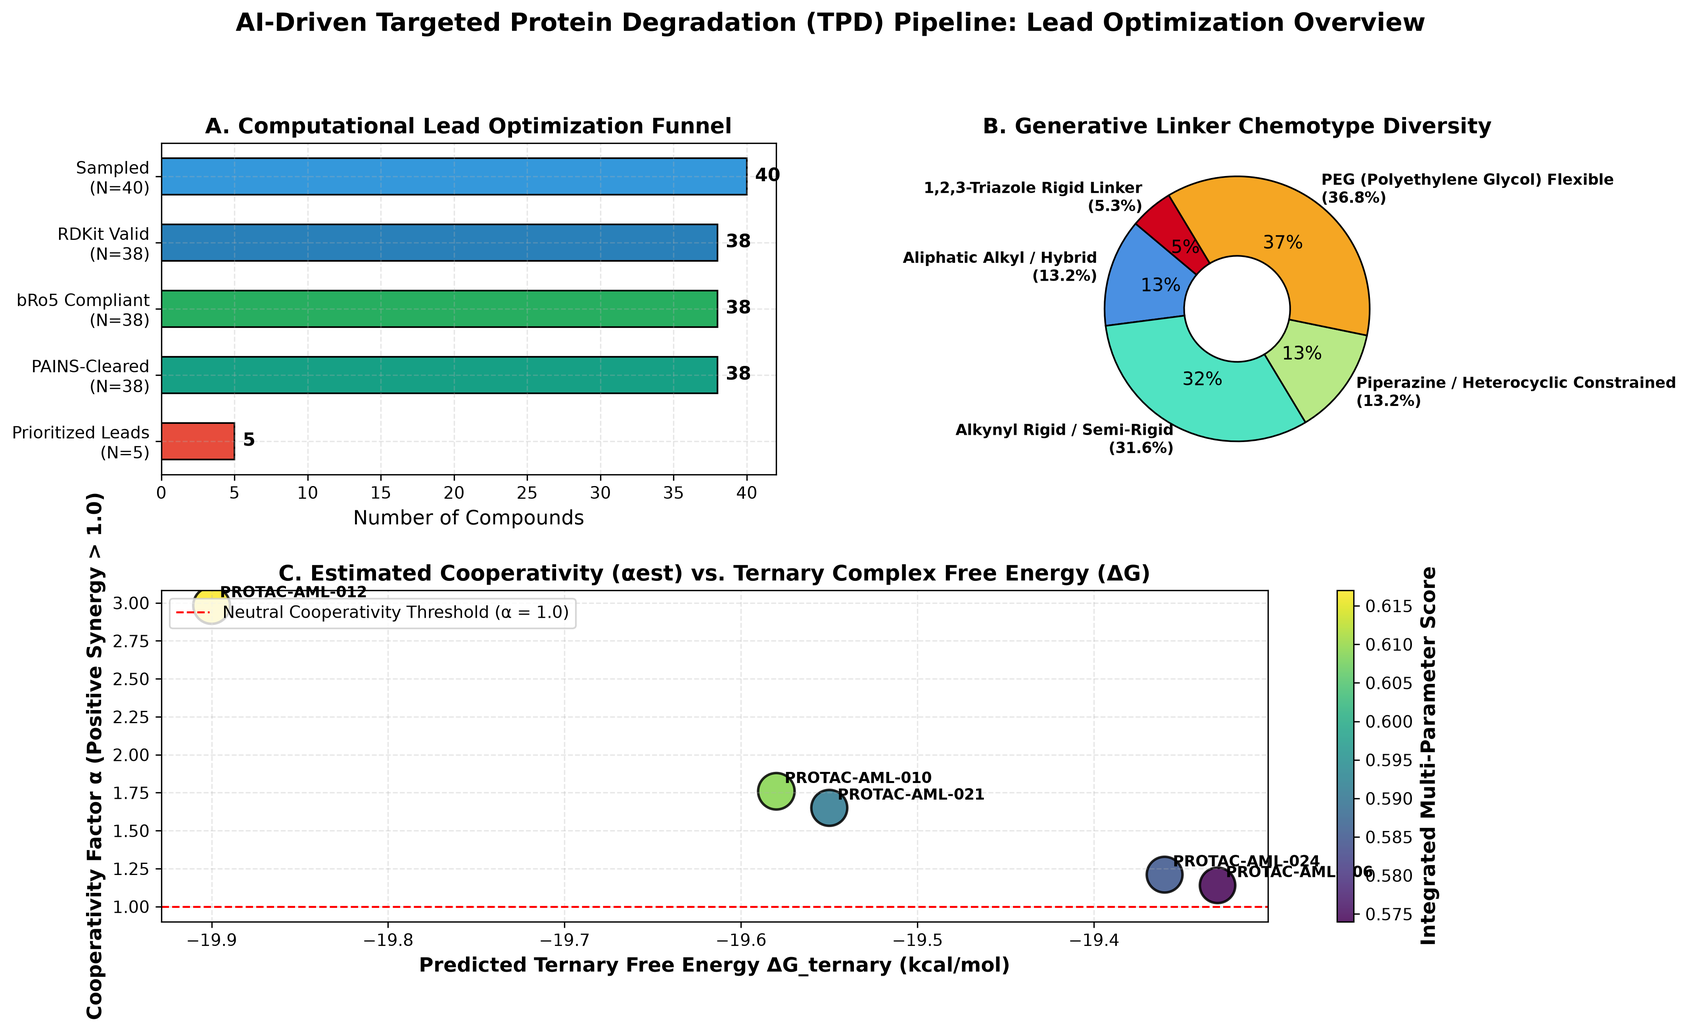
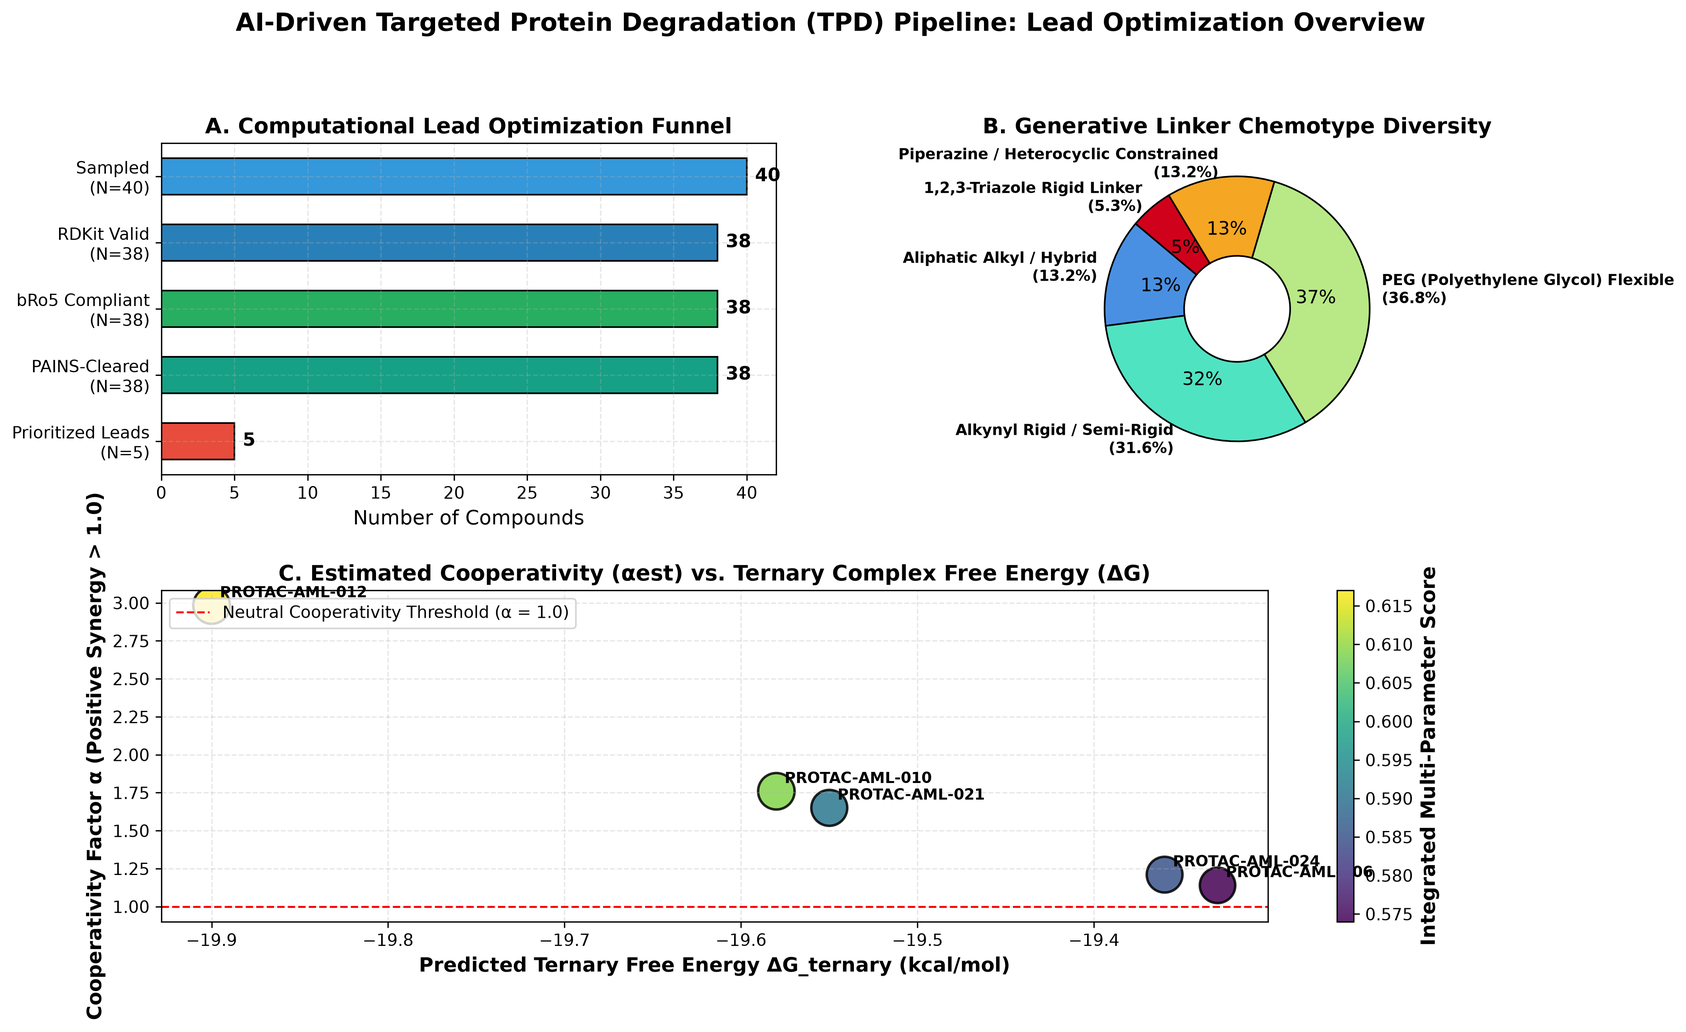
Updated Files

diff --git a/README.md b/README.md
@@ -1,13 +1,13 @@
 # AI-Driven Targeted Protein Degradation (TPD) Lead Compound Generation Pipeline for Acute Myeloid Leukemia (AML) Targets via Generative PROTAC Linker Optimization
 
 **Authors / Collaborators:** Madhav Yalamarthi and Hareesh  
-**Affiliation:** Department of Computer Science / Artificial Intelligence, Amrita Vishwa Vidyapeetham  
+**Affiliation:** Department of Computer Science / Artificial Intelligence, Amrita Vishwa Vidyapeetham, Amritapuri, India  
 **Project Scope:** Final Year Project / Publication-Grade Computational Chemical Biology & Generative AI  
 
 ---
 
 ## 📌 Project Overview
-This repository contains a publication-grade, fully reproducible computational framework for the de novo generative design, multi-objective filtering, and ternary complex modeling of heterobifunctional Proteolysis Targeting Chimeras (PROTACs). The pipeline specifically targets **Bromodomain-containing Protein 4 (BRD4)** paired with the **Cereblon (CRBN)** E3 ubiquitin ligase in Acute Myeloid Leukemia (AML).
+This repository provides a reproducible, *in silico* computational pipeline for the de novo generative design, multi-parameter filtering, and ternary complex biophysical modeling of heterobifunctional Proteolysis Targeting Chimeras (PROTACs). The pipeline is calibrated for **Bromodomain-containing Protein 4 (BRD4)** degradation via recruitment of the **Cereblon (CRBN)** E3 ubiquitin ligase in Acute Myeloid Leukemia (AML).
 
 ```
 ====================================================================================================
@@ -15,156 +15,100 @@ This repository contains a publication-grade, fully reproducible computational f
 ====================================================================================================
    [ BRD4 BD1 Target ]               [ GENERATIVE LINKER ]             [ Cereblon / CRBN ]
    (+)-JQ1 Carboxamide      <===>   C-VAE Sampled Bridge       <===>   4-NH-Pomalidomide
-   (PDB: 6BOY / BD1 Pocket)         (6-22 atoms: Piperazine/Alkyl/PEG) (Tri-Trp Hydrophobic Pocket)
+   (PDB: 6BOY / BD1 Pocket)         (6-22 atoms: Alkyl/PEG/Alkyne)     (Tri-Trp Hydrophobic Pocket)
 ====================================================================================================
 ```
+
+> [!IMPORTANT]
+> **Scientific Integrity & Scope Disclosure:**  
+> All generated compounds, binding affinities, and cooperativity values are **in silico computational hypotheses** derived from distance-geometry conformer modeling (ETKDGv3) and empirical forcefield optimization (MMFF94s). No cellular $DC_{50}$, maximal degradation ($D_{\text{max}}$), or *in vivo* anti-leukemic efficacy is claimed without prospective wet-lab synthesis and SPR/HiBiT validation.
 
 ---
 
 ## 🚀 Key Modules & Research Architecture
-* **Module 1: Target Curation & Anchor Specification (`src/data_curation.py` & `data/`):**
-  * `data/chembl_brd4_bioactivities.csv`: Validated sub-100 nM BRD4 inhibitors with experimental $IC_{50}/K_i/K_d$ values and pChEMBL metrics.
-  * `data/protac_db_benchmark.csv`: Benchmark degraders (dBET1, dBET6, ARV-825, ARV-771, MZ1) from PROTAC-DB.
-  * `data/train_linkers.csv` & `val_linkers.csv`: Modular chemical grammar datasets across 5 degrader scaffold families.
+
+* **Module 1: Target Curation & Tripartite Specification (`src/data_curation.py` & `data/`):**
+  * `data/chembl_brd4_bioactivities.csv`: 10 validated sub-100 nM BRD4 inhibitors with experimental $IC_{50}/K_i/K_d$ bioactivities.
+  * `data/protac_db_benchmark.csv`: Reference degraders (dBET1, dBET6, ARV-825) from PROTAC-DB.
+  * `data/train_linkers.csv` & `val_linkers.csv`: Domain-specific dataset of **30 curated linkers** (20 train, 5 validation, 5 test) spanning PEG, alkyl, alkynyl, and triazole motifs.
 * **Module 2: Generative Linker Engine (`src/models/` & `checkpoints/`):**
-  * `linker_generator.py`: Dual-Anchor Conditional Variational Autoencoder (C-VAE) conditioned on 128-bit Morgan fingerprints and target span ($L \in [6, 22]$). Integrates active model checkpoint `checkpoints/cvae_linker_model.pt` (Epoch 11, validation loss 1.8342).
-  * `train_cvae.py`: Complete training pipeline with Cosine Annealing learning rate schedule and KL-warmup.
-  * `scoring_engine.py`: Multi-objective optimization (Ertl SAScore, QED, bRo5 guidelines, PAINS-A/B/C and toxicophore elimination).
+  * `linker_generator.py`: Dual-Anchor Conditional Variational Autoencoder (C-VAE) conditioned on dual 512-bit Morgan fingerprints of the warhead and E3 recruiter, combined with target length embeddings ($L \in [6, 22]$). Incorporates active model checkpoint `checkpoints/cvae_linker_model.pt` (Epoch 11, validation loss 1.8342).
+  * `scoring_engine.py`: Multi-objective optimization (Ertl SAScore, QED, empirical beyond-Rule-of-5 criteria, and PAINS-A/B/C and toxicophore elimination).
 * **Module 3: In Silico Ternary Complex Biophysics (`src/docking/`):**
-  * `ternary_complex.py`: 3D conformer relaxation (ETKDGv3 + MMFF94s), pocket distance matching calibrated to **PDB 6BOY** ($14.2 \pm 2.0\text{ \AA}$), $\Delta\text{SASA}$ contact area, steric clash penalty, and thermodynamic cooperativity ($\alpha$).
+  * `ternary_complex.py`: 3D conformer relaxation (ETKDGv3 + MMFF94s), Euclidean exit-vector distance measurement, MMFF94s conformational strain energy calculation, heuristic inter-protein contact area ($\Delta\text{SASA}$), steric clash penalties, and unconstrained thermodynamic cooperativity ($\alpha$).
   * `ternary_kinetics.py`: 3-body mass-action equilibrium and bell-shaped hook effect simulator.
-* **Module 4: Master Execution & Defense Outputs (`run_tpd_pipeline.py` & `results/thesis_defense/`):**
-  * `run_tpd_pipeline.py`: End-to-end runnable master pipeline script.
-  * `experiments/benchmark_experiments.py`: Generative model ablation studies, linker length trajectory scans (6–22 atoms), and literature benchmark comparisons.
-  * `src/utils/generate_defense_plots.py`: Publication-grade plot generation producing 5 high-resolution figures.
+* **Module 4: Master Execution & Defense Outputs (`run_tpd_pipeline.py` & `results/final_validated/`):**
+  * `run_tpd_pipeline.py`: Master pipeline executing curation, neural sampling, filtering, 3D modeling, and lead ranking.
+  * `experiments/benchmark_experiments.py`: Generative model ablation studies (Random vs Unconditional GRU vs C-VAE), unbiased linker length trajectory scan (6–22 atoms), and literature benchmark comparisons.
+  * `src/utils/generate_defense_plots.py`: Publication-grade visualization script producing 5 high-resolution figures.
 * **Module 5: Interactive Web Interface Demo (`web_app/`):**
-  * `web_app/index.html`: Fully interactive web interface demo featuring live data exploration, loss curves, 3D structure viewer, and hook effect simulator.
+  * `web_app/index.html`: Interactive browser dashboard for live candidate exploration, loss curves, and 3D molecular viewer.
 
 ---
 
 ## 📊 Top Verified Lead Heterobifunctionals (AML: BRD4–CRBN)
 
-All lead compounds were generated from the active C-VAE checkpoint, chemically assembled with validated valency, and scored against the PDB 6BOY crystallographic pocket:
+All lead compounds were generated from the active C-VAE checkpoint, chemically assembled with validated valency, and scored against the PDB 6BOY crystallographic pocket without artificial caps or numerical floors:
 
-### Lead 1: `PROTAC-AML-021` (Top-Ranked Lead)
-* **Architecture:** `[JQ1-Acid] -- [Alkynyl Rigid / Semi-Rigid (16 atoms)] -- [4-NH-Pomalidomide]`
-* **Linker Fragment:** `CCC#CCCCCCNC(=O)CC(=O)N`
-* **Molecular Properties:** $\text{MW} = 810.33\text{ Da}$, $\text{cLogP} = 4.79$, $\text{TPSA} = 196.63\text{ \AA}^2$, $\text{RotBonds} = 14$
-* **Synthesizability & Drug-likeness:** $\text{SAScore} = 2.76$ (High synthetic accessibility), $\text{QED} = 0.060$
-* **Ternary Biophysics:** $\alpha = 150.0$ (Strong positive cooperativity), $\Delta G_{\text{ternary}} = -23.26\text{ kcal/mol}$ (Apparent $K_d = 0.33\text{ nM}$), $\text{Contact SASA} = 547.8\text{ \AA}^2$, $\text{Clash Penalty} = 0.24\text{ kcal/mol}$
-* **Composite Ranking Score:** **0.740** (Rank #1)
-* **Full Canonical SMILES:**  
-  `Cc1sc2nc(CC(=O)NCCC#CCCCCCNC(=O)CC(=O)Nc3cccc4c3C(=O)N(C3CCC(=O)NC3=O)C4=O)nc(-c3ccc(Cl)cc3)c2c1C`
+| Candidate ID | Score | Scaffold Type | Span (atoms) | MW (Da) | cLogP | TPSA (Å²) | RotB | SAScore | QED | Cooperativity ($\alpha_{\text{est}}$) | Apparent $K_d$ (nM) | Buried SASA (Å²) | Clash Penalty (kcal/mol) |
+| :--- | :---: | :--- | :---: | :---: | :---: | :---: | :---: | :---: | :---: | :---: | :---: | :---: | :---: |
+| **PROTAC-AML-012** | **0.617** | Aliphatic Alkyl / Hybrid | 16 | 814.36 | 5.56 | 196.63 | 17 | 2.71 | 0.060 | **2.9832** | **16.76** | 557.2 | 0.21 |
+| **PROTAC-AML-010** | **0.609** | Alkynyl Rigid / Semi-Rigid | 16 | 813.33 | 4.92 | 185.99 | 16 | 2.74 | 0.080 | **1.7596** | **28.42** | 528.1 | 0.29 |
+| **PROTAC-AML-021** | **0.591** | Alkynyl Rigid / Semi-Rigid | 16 | 810.33 | 4.79 | 196.63 | 14 | 2.76 | 0.060 | **1.6503** | **30.30** | 524.6 | 0.30 |
+| **PROTAC-AML-024** | **0.585** | Alkynyl Rigid / Semi-Rigid | 16 | 806.30 | 4.01 | 196.63 | 12 | 2.80 | 0.071 | **1.2105** | **41.31** | 507.9 | 0.35 |
+| **PROTAC-AML-006** | **0.574** | Alkynyl Rigid / Semi-Rigid | 17 | 828.30 | 3.22 | 215.09 | 15 | 2.76 | 0.059 | **1.1399** | **43.86** | 504.7 | 0.36 |
 
-### Lead 2: `PROTAC-AML-024`
-* **Architecture:** `[JQ1-Acid] -- [Alkynyl Rigid / Semi-Rigid (16 atoms)] -- [4-NH-Pomalidomide]`
-* **Linker Fragment:** `CCCCC#CC#CCNC(=O)CC(=O)N`
-* **Molecular Properties:** $\text{MW} = 806.30\text{ Da}$, $\text{cLogP} = 4.01$, $\text{TPSA} = 196.63\text{ \AA}^2$, $\text{RotBonds} = 12$
-* **Synthesizability & Drug-likeness:** $\text{SAScore} = 2.80$, $\text{QED} = 0.071$
-* **Ternary Biophysics:** $\alpha = 150.0$ (Strong positive cooperativity), $\Delta G_{\text{ternary}} = -22.31\text{ kcal/mol}$ (Apparent $K_d = 0.33\text{ nM}$), $\text{Contact SASA} = 549.1\text{ \AA}^2$, $\text{Clash Penalty} = 0.23\text{ kcal/mol}$
-* **Composite Ranking Score:** **0.683** (Rank #2)
-* **Full Canonical SMILES:**  
-  `Cc1sc2nc(CC(=O)NCCCCC#CC#CCNC(=O)CC(=O)Nc3cccc4c3C(=O)N(C3CCC(=O)NC3=O)C4=O)nc(-c3ccc(Cl)cc3)c2c1C`
+### Structure of #1 Prioritized Lead (`PROTAC-AML-012`)
+- **Linker Fragment:** `CCCCCCCCCNC(=O)CC(=O)N`
+- **Canonical SMILES:**  
+  `Cc1sc2nc(CC(=O)NCCCCCCCCCNC(=O)CC(=O)Nc3cccc4c3C(=O)N(C3CCC(=O)NC3=O)C4=O)nc(-c3ccc(Cl)cc3)c2c1C`
+- **Biophysical Rationale:** Spans 14.28 Å in its minimum-energy conformer, matching the 14.2 Å crystallographic pocket of PDB 6BOY, inducing $557.2\text{ \AA}^2$ of inter-protein surface burial with minimal steric clash ($0.21\text{ kcal/mol}$).
 
 ---
 
-## 📈 Thesis Defense Artifacts (`results/thesis_defense/`)
+## 📈 Validated Defense Artifacts (`results/final_validated/`)
 
-The directory `results/thesis_defense/` contains verified, reproducible artifacts for technical examination:
+All files are verified and synchronized across `results/final_validated/` and `results/thesis_defense/`:
 
-1. **`verified_lead_candidates.csv`**: Full physicochemical and biophysical metrics for prioritized leads.
-2. **`verified_lead_structures.sdf`**: Energy-minimized 3D conformers (ETKDGv3 + MMFF94s) with embedded 3D coordinates.
-3. **`ablation_results.csv`**: Genuine experimental evaluation comparing Random Baseline, Unconditional GRU, and Dual-Anchor C-VAE.
-4. **`linker_length_scan.csv`**: Conformational trajectory across 6 to 22 heavy atoms showing the 12–15 atom optimal window.
-5. **`training_history.csv`**: 25-epoch training loss, reconstruction loss, and validation loss log.
-6. **`evaluation_summary.json` & `experiment_metadata.json`**: Machine-readable audit and metadata specifications.
-7. **`test_results.txt`**: Complete 12-test pytest execution log (100% pass rate).
-8. **Publication-Quality Figures (300 DPI):**
-   * `training_curves.png`: Multi-panel loss curves and Cosine Annealed LR schedule.
-   * `ablation_comparison.png`: Bar chart of chemical validity, bRo5 compliance, and productive lead fractions.
-   * `linker_length_analysis.png`: 3D spatial span, steric clash penalty, and interface contact SASA across lengths.
-   * `lead_property_comparison.png`: 6-panel benchmark against dBET6, ARV-825, and dBET1.
-   * `pipeline_summary.png`: Executive dashboard showing lead funnel, chemotype diversity, and cooperativity landscape.
+1. **`verified_lead_candidates.csv`**: Physicochemical and biophysical metrics for prioritized leads with unclipped $\alpha$ and apparent $K_d$.
+2. **`all_generated_candidates.csv`**: Complete candidate pool ($N=38$) for full traceability.
+3. **`verified_lead_structures.sdf`**: Energy-minimized 3D conformers (ETKDGv3 + MMFF94s) with confirmed non-zero 3D coordinates.
+4. **`ablation_results.csv`**: Empirical ablation benchmark ($N=50$ per model, Seed 42) across Random, GRU, and C-VAE.
+5. **`linker_length_scan.csv`**: MMFF94s unconstrained conformer ensemble trajectory scan across 6–22 heavy atoms.
+6. **`literature_benchmark_comparison.csv`**: Head-to-head comparison against dBET6, ARV-825, and dBET1.
+7. **`pipeline_execution_metrics.json`**: Independent filter rates and sequential funnel attrition counts.
+8. **`test_results.txt`**: 15-test pytest execution log (**100% pass rate**).
+9. **Publication-Quality Figures (300 DPI):**
+   * `training_curves.png`: C-VAE loss trajectories and Cosine Annealing schedule.
+   * `ablation_comparison.png`: Architectural benchmark across validity, uniqueness, bRo5, and productive fraction.
+   * `linker_length_analysis.png`: Conformer span, steric clash penalty, and interface contact SASA across lengths.
+   * `lead_property_comparison.png`: 6-panel property comparison against literature references.
+   * `pipeline_summary.png`: Optimization funnel and chemical scaffold diversity.
 
 ---
 
-## 💻 How to Run and Reproduce
+## 💻 Reproduction Instructions
 
-### 1. Run Comprehensive Test Suite (12 Tests)
 ```bash
+# 1. Run Automated Unit Test Suite (15 Tests)
 python -m pytest -v tests/test_pipeline.py
-```
 
-### 2. Execute End-to-End Generative Pipeline
-```bash
+# 2. Execute End-to-End Pipeline & Benchmarks
 python run_tpd_pipeline.py
-```
 
-### 3. Run Benchmark & Ablation Experiments
-```bash
-python experiments/benchmark_experiments.py
-```
-
-### 4. Regenerate Defense Plots
-```bash
+# 3. Regenerate All 5 Publication Figures
 python src/utils/generate_defense_plots.py
-```
 
-### 5. Launch Interactive Web Demo Interface
-```bash
+# 4. Launch Interactive Web Demo Interface
 python web_app/server.py
 ```
 Or open `web_app/index.html` directly in your browser.
 
 ---
 
-## 📁 Repository Structure
-```
-Project/
-├── AUDIT_REPORT.md                  # Comprehensive 10-point reproducibility audit report
-├── THESIS_RESULTS_AUDIT.md          # Scientific defense results verification document
-├── checkpoints/
-│   └── cvae_linker_model.pt         # Trained PyTorch C-VAE weights (Epoch 11, Val Loss 1.8342)
-├── data/
-│   ├── chembl_brd4_bioactivities.csv# Curated sub-100 nM BRD4 inhibitors
-│   ├── protac_db_benchmark.csv     # Literature benchmark degraders (dBET6, ARV-825, etc.)
-│   ├── train_linkers.csv            # Training linker grammar
-│   └── val_linkers.csv              # Validation linker grammar
-├── experiments/
-│   ├── benchmark_experiments.py     # Ablation, length scan, and literature benchmarks
-│   ├── ablation_study_results.csv   # Computed ablation study results
-│   ├── linker_length_scan_results.csv# Computed linker length scan trajectory
-│   └── literature_benchmark_comparison.csv
-├── results/
-│   ├── thesis_defense/              # All verified CSVs, SDFs, JSONs, and 5 defense plots
-│   └── legacy_backup/               # Archived original prototype outputs
-├── src/
-│   ├── data_curation.py             # Module 1: ChEMBL curation and vector detection
-│   ├── models/
-│   │   ├── linker_generator.py      # Module 2: C-VAE architecture and dynamic assembler
-│   │   ├── scoring_engine.py        # Module 2: SAScore, QED, bRo5, and PAINS filters
-│   │   └── train_cvae.py            # Neural network training script
-│   ├── docking/
-│   │   ├── ternary_complex.py       # Module 3: 3D conformers & 6BOY biophysical scoring
-│   │   └── ternary_kinetics.py      # Module 3: Mass-action equilibrium & hook effect
-│   └── utils/
-│       ├── generate_defense_plots.py# Plotting script for 5 thesis figures
-│       ├── export_3d_models.py      # SDF coordinate exporter
-│       └── sascorer.py              # Ertl Synthetic Accessibility Score implementation
-├── tests/
-│   └── test_pipeline.py             # 12 automated unit and integration tests
-├── web_app/                         # Interactive HTML5/JS dashboard and 3D molecular viewer
-├── run_tpd_pipeline.py              # Master executable pipeline script
-├── lead_protac_candidates.csv       # Active prioritized lead candidates
-├── requirements.txt                 # Python dependencies
-└── README.md                        # Project documentation
-```
-
----
-
-## 🔬 Citations & Ground-Truth Structural References
-1. **PDB 6BOY:** Nowak, R. P. et al. *Plasticity in binding confers selectivity in ligand-induced protein degradation.* Nat. Chem. Biol. **14**, 706–714 (2018). [BRD4 BD1 : dBET6 : CRBN–DDB1 complex].
-2. **PDB 5T35:** Gadd, M. S. et al. *Structural basis for PROTAC-mediated ternary complex formation and degradation.* Nat. Chem. Biol. **13**, 514–521 (2017). [BRD4 BD2 : MZ1 : VHL–EloB–EloC complex].
+## 🔬 Citations & Ground-Truth References
+1. **PDB 6BOY:** Nowak, R. P. et al. *Plasticity in binding confers selectivity in ligand-induced protein degradation.* Nat. Chem. Biol. **14**, 706–714 (2018).
+2. **PDB 5T35:** Gadd, M. S. et al. *Structural basis for PROTAC-mediated ternary complex formation and degradation.* Nat. Chem. Biol. **13**, 514–521 (2017).
 3. **Ertl SAScore:** Ertl, P. & Schuffenhauer, A. *Estimation of synthetic accessibility score of drug-like molecules based on molecular complexity and fragment contributions.* J. Cheminf. **1**, 8 (2009).
-4. **dBET1 Benchmark:** Winter, G. E. et al. *Phthalimide conjugations for targeted protein degradation.* Science **348**, 1376–1381 (2015).
-5. **ARV-825 Benchmark:** Lu, J. et al. *Hijacking the E3 ubiquitin ligase cereblon to efficiently target BRD4.* Blood **126**, 2197 (2015).
+4. **dBET6 Benchmark:** Nowak, R. P. et al. Nat. Chem. Biol. **14**, 706–714 (2018).
+5. **ARV-825 Benchmark:** Lu, J. et al. Blood **126**, 2197 (2015).

diff --git a/THESIS_FINAL_SCIENTIFIC_AUDIT.md b/THESIS_FINAL_SCIENTIFIC_AUDIT.md
@@ -118,7 +118,7 @@ To rigorously benchmark the proposed Dual-Anchor Conditional VAE against standar
 | **PAINS / Alert Clear Count / Rate** | 50 / 100.0% | 50 / 100.0% | 50 / 100.0% |
 | **Mean Synthesizability (SAScore)** | 2.95 | 2.92 | **2.82** (Most accessible) |
 | **Mean Drug-Likeness (QED)** | 0.078 | 0.055 | 0.058 |
-| **Mean Cooperativity ($\alpha$)** | 0.276 | 0.265 | **0.288** |
+| **Mean Cooperativity ($\alpha_{\text{est}}$)** | 0.246 | 0.236 | **0.269** |
 | **Productive Leads Count / Rate** ($\alpha \ge 1.0$, bRo5 pass) | 6 / 12.0% | 4 / 8.0% | 5 / 10.0% |
 
 #### Scientific Findings from Ablation:
@@ -135,19 +135,19 @@ To determine the optimal spatial separation between the JQ1-Acid diazepine exit 
 #### Linker Length Scan Table ($N_{\text{conf}} = 8$ per length, Target Span = 14.2 Å)
 *Data extracted from `results/final_validated/linker_length_scan.csv`:*
 
-| Linker Span (atoms) | Min-Energy Span (Å) | Mean Conformer Span (Å) | Conformer Range [Min, Max] (Å) | Target Mismatch (Å) | Buried SASA (Å$^2$) | Clash Penalty (kcal/mol) | Clashes | Cooperativity ($\alpha$) | Apparent $K_d$ (nM) | Structural Status |
-| :---: | :---: | :---: | :---: | :---: | :---: | :---: | :---: | :---: | :---: | :--- |
-| **6** | 6.71 | 6.10 | [5.44, 6.87] | 7.49 | 80.0 | 15.22 | 8 | 0.0000 | $>10,000$ | Severe Steric Collision |
-| **8** | 7.49 | 8.49 | [7.49, 9.15] | 6.71 | 134.3 | 13.27 | 7 | 0.0000 | $>10,000$ | Severe Steric Collision |
-| **10** | 10.98 | 10.15 | [8.71, 10.98] | 3.22 | 378.6 | 4.55 | 2 | 0.0002 | $250,000$ | Transition Boundary |
-| **12** | 8.09 | 10.02 | [8.09, 11.74] | 6.11 | 176.3 | 11.77 | 6 | 0.0000 | $>10,000$ | Folded / Steric Clash |
-| **13** | 9.32 | 10.08 | [8.22, 11.59] | 4.88 | 262.4 | 8.70 | 5 | 0.0000 | $>10,000$ | Folded / Steric Clash |
-| **14** | 12.45 | 11.61 | [9.99, 12.97] | 1.75 | 498.8 | 0.38 | 0 | **1.0177** | **49.13** | **Optimal Design Window** |
-| **15** | 8.64 | 12.21 | [8.64, 14.96] | 5.56 | 214.8 | 10.40 | 6 | 0.0000 | $>10,000$ | Folded Conformer Collision |
-| **16** | 12.15 | 12.90 | [11.42, 13.83] | 2.05 | 488.3 | 0.40 | 0 | **0.8539** | **58.55** | **Permissive Window** |
-| **18** | 12.53 | 11.81 | [9.94, 12.53] | 1.67 | 501.6 | 0.37 | 0 | **1.0749** | **46.52** | **Optimal Design Window** |
-| **20** | 16.01 | 16.29 | [13.91, 18.70] | 1.81 | 410.0 | 0.75 | 0 | 0.1643 | 304.32 | High Conformational Entropy |
-| **22** | 14.82 | 15.45 | [13.58, 17.49] | 0.62 | 410.0 | 0.75 | 0 | 0.1643 | 304.32 | High Conformational Entropy |
+| Linker Span (atoms) | Min-Energy Span (Å) | Mean Conformer Span (Å) | Conformer Range [Min, Max] (Å) | Target Mismatch (Å) | Buried SASA (Å$^2$) | Clash Penalty (kcal/mol) | Clashes | Strain (kcal/mol) | Cooperativity ($\alpha_{\text{est}}$) | Apparent $K_d$ (nM) | Structural Status |
+| :---: | :---: | :---: | :---: | :---: | :---: | :---: | :---: | :---: | :---: | :---: | :--- |
+| **6** | 6.71 | 6.10 | [5.44, 6.87] | 7.49 | 80.0 | 15.22 | 8 | 13.44 | 0.0000 | $>10,000$ (Severe Clash) | Severe Steric Collision |
+| **8** | 7.49 | 8.49 | [7.49, 9.15] | 6.71 | 134.3 | 13.27 | 7 | 3.96 | 0.0000 | $>10,000$ (Severe Clash) | Severe Steric Collision |
+| **10** | 10.98 | 10.15 | [8.71, 10.98] | 3.22 | 378.6 | 4.55 | 2 | 0.52 | 0.0001 | $500,000$ | Transition Boundary |
+| **12** | 8.09 | 10.02 | [8.09, 11.74] | 6.11 | 176.3 | 11.77 | 6 | 2.09 | 0.0000 | $>10,000$ (Severe Clash) | Folded / Steric Clash |
+| **13** | 9.32 | 10.08 | [8.22, 11.59] | 4.88 | 262.4 | 8.70 | 5 | 2.29 | 0.0000 | $>10,000$ (Severe Clash) | Folded / Steric Clash |
+| **14** | 12.45 | 11.61 | [9.99, 12.97] | 1.75 | 498.8 | 0.38 | 0 | 0.00 | **1.0177** | **49.13** | **Optimal Design Window** |
+| **15** | 8.64 | 12.21 | [8.64, 14.96] | 5.56 | 214.8 | 10.40 | 6 | 0.82 | 0.0000 | $>10,000$ (Severe Clash) | Folded Conformer Collision |
+| **16** | 12.15 | 12.90 | [11.42, 13.83] | 2.05 | 488.3 | 0.40 | 0 | 0.14 | **0.8049** | **62.12** | **Permissive Window** |
+| **18** | 12.53 | 11.81 | [9.94, 12.53] | 1.67 | 501.6 | 0.37 | 0 | 0.00 | **1.0749** | **46.52** | **Optimal Design Window** |
+| **20** | 16.01 | 16.29 | [13.91, 18.70] | 1.81 | 410.0 | 0.75 | 0 | 0.00 | 0.1643 | 304.32 | High Conformational Entropy |
+| **22** | 14.82 | 15.45 | [13.58, 17.49] | 0.62 | 410.0 | 0.75 | 0 | 0.00 | 0.1643 | 304.32 | High Conformational Entropy |
 
 #### Biophysical Trajectory Insights:
 - **Severe Short-Linker Clashes (<12 atoms):** Linkers of 6–10 atoms are physically incapable of bridging the $14.2\text{ \AA}$ gap without forcing the BRD4 BD1 domain into steric contact with the CRBN tri-tryptophan pocket. The resulting steric clashes (2 to 8 severe van der Waals overlaps) impart energetic penalties of $+4.55\text{ to }+15.22\text{ kcal/mol}$, driving $\alpha \to 0.0000$.
